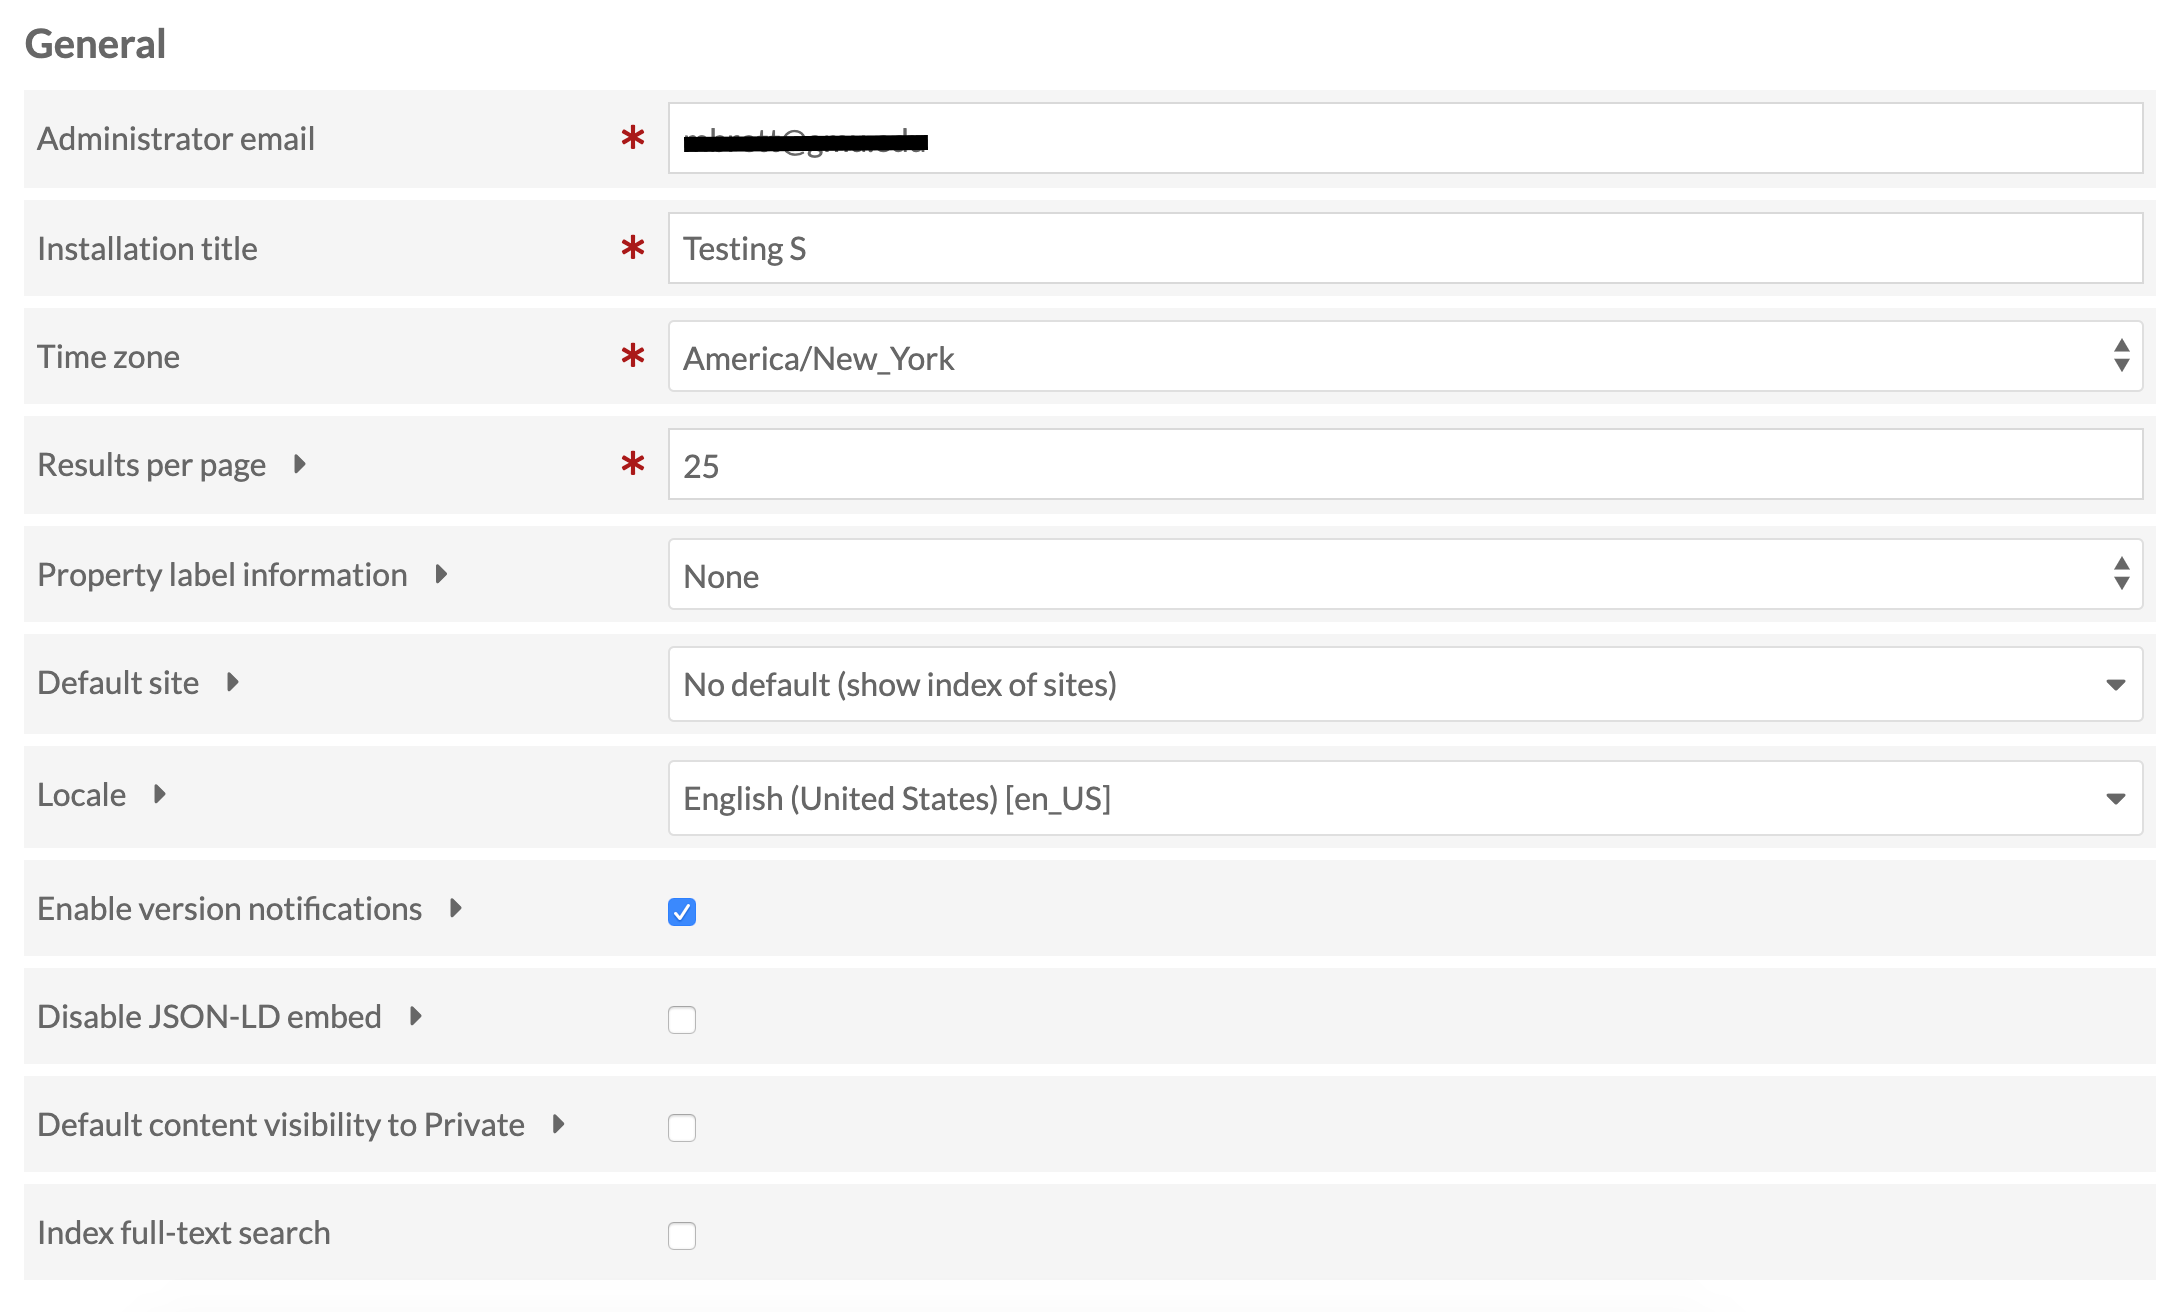
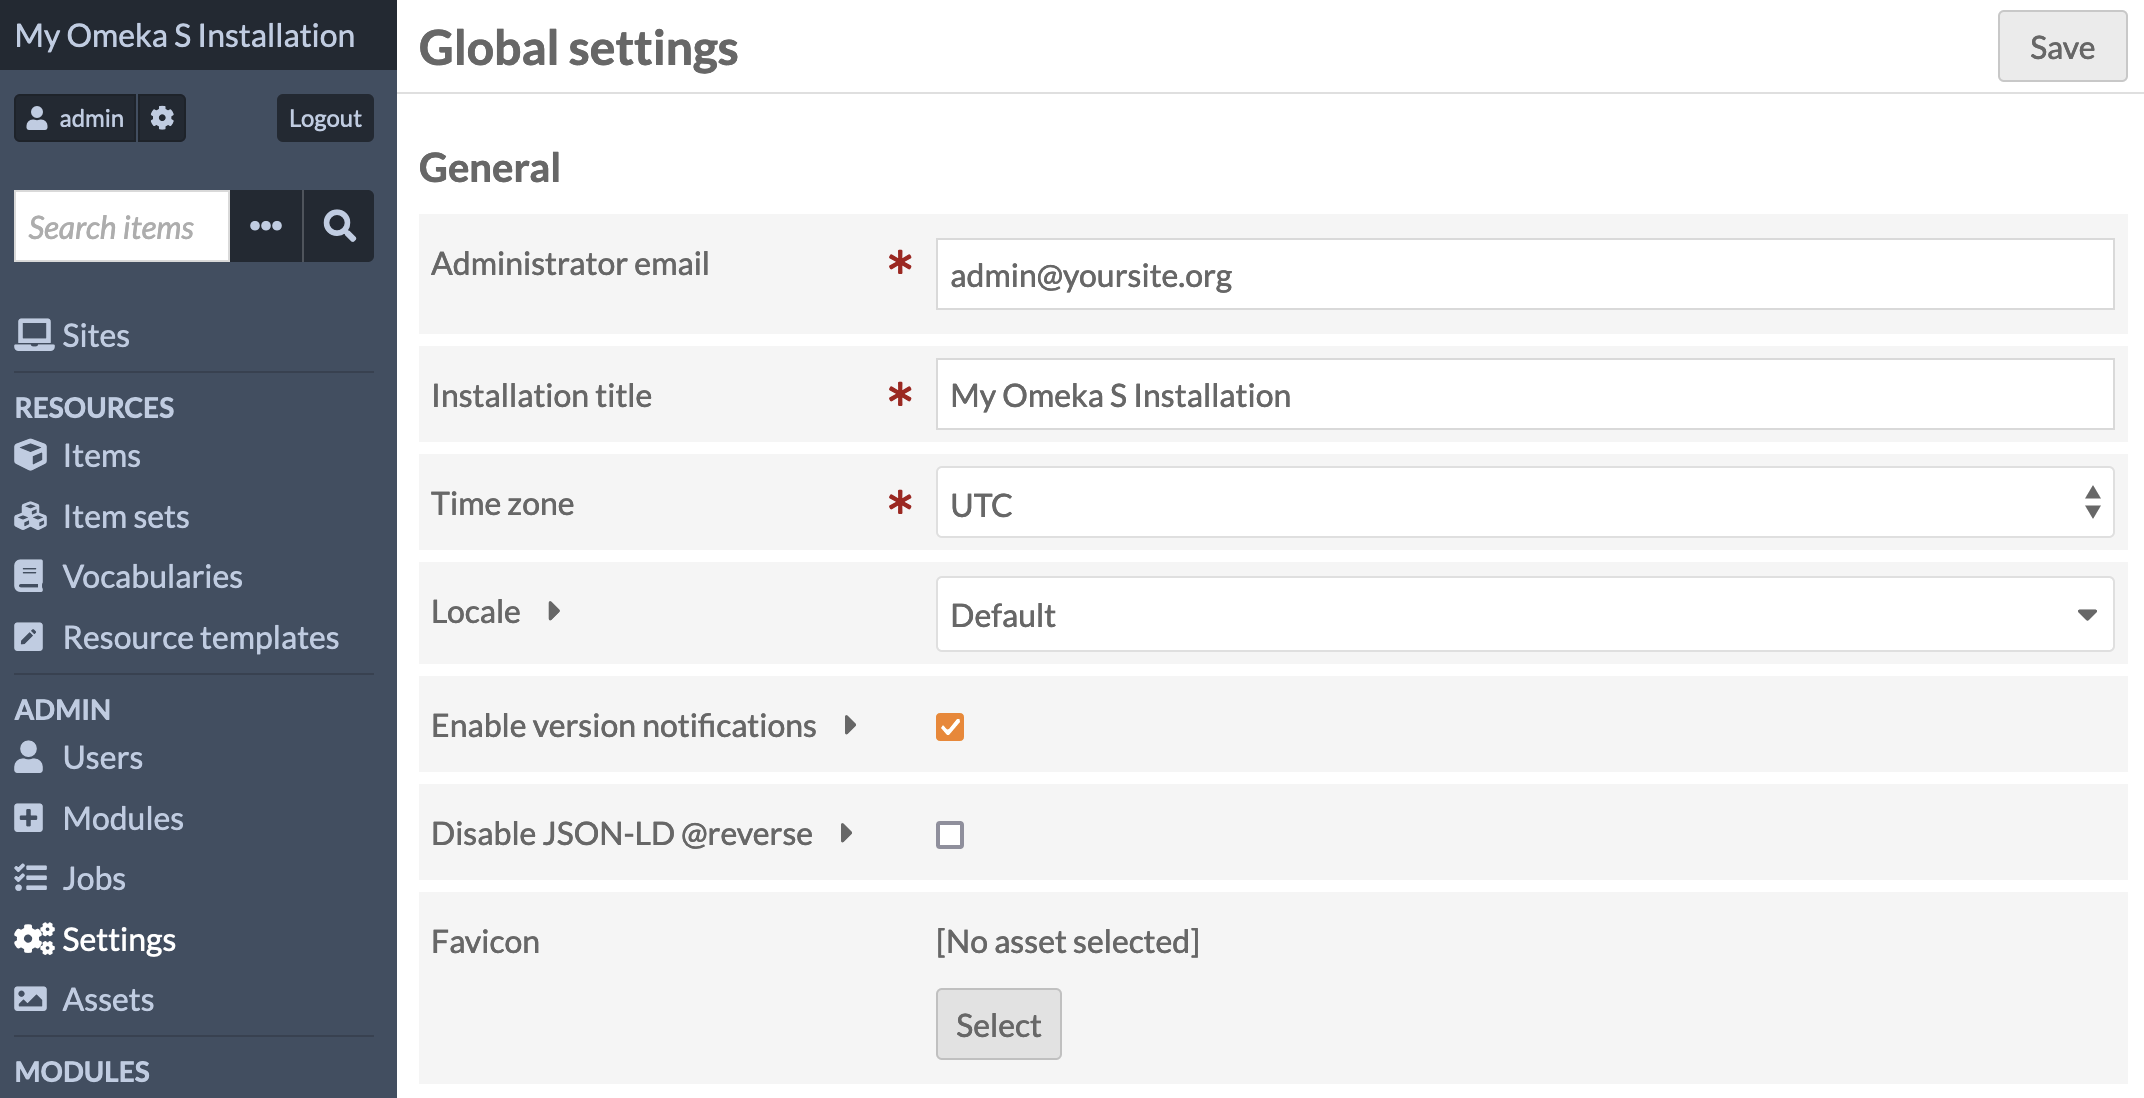
More misc

diff --git a/docs/admin/settings.md b/docs/admin/settings.md
@@ -4,7 +4,7 @@ Admin users may change the settings for the admin dashboard and general settings
 
 Global settings are only available to Global Administrator users.
 
-Settings are divided into two sections: **General** and **Security** settings.
+Settings are divided into five sections: **General**, **Display**, **Editing**, **Search**, and **Security** settings.
 
 ## General
 
@@ -19,6 +19,18 @@ Settings are divided into two sections: **General** and **Security** settings.
 
 **Time zone**: Sets the default time zone for the install, which will be used for error logging messages and to determine creation dates for items, item sets, and other materials on the install. This is a dropdown menu. 
 
+**Locale**: A dropdown that lets you select from a dropdown of [available languages](https://www.transifex.com/omeka/omeka-s/){target=_blank} for the Omeka S core to change the language in which your installation's admin side displays.
+
+**Enable version notifications**: Check this box to enable warning banners for new versions of Omeka S, themes, and modules. If it is unchecked, no user (at any role) will see update warnings, not even the Global Administrator. If it is checked, every applicable user can see them (i.e. Supervisor users who can see the Modules page, Site Managers who can see the Themes pages, and every user on the `/admin` homepage).
+
+**Disable JSON-LD @reverse**: Disable [JSON-LD reverse properties](https://www.w3.org/TR/json-ld11/#reverse-properties){target=_blank} in the API output for resources. 
+
+**Favicon**: Choose from your assets, or upload a file, to appear in the small browser window/tab icon space. A [favicon](https://www.w3schools.com/html/html_favicon.asp){target=_blank} should be a small image around 32x32 pixels in size uploaded specifically for this purpose. Favicons can be [set at an installation level](../sites/site_settings.md#general-settings) as well as on each individual site.
+
+## Display
+
+![Display, Editing, and Search settings with fields as described below](adminfiles/settings_display.png)
+
 **Results per page**: Changes the number of results (items, item sets, media) displayed per page when browsing in either public or admin sides of the installation.
 
 **Property label information**: Determines what is displayed next to each property when users are editing items and item sets. 
@@ -29,11 +41,9 @@ Settings are divided into two sections: **General** and **Security** settings.
 
 **Default site**: This dropdown gives you control over where people land when they navigate to the base url of your install. You can either display a list of all sites in the install (default) or select a specific site from the dropdown, to which people will be redirected.
 
-**Locale**: A dropdown that lets you select from a dropdown of [available languages](https://www.transifex.com/omeka/omeka-s/){target=_blank} for the Omeka S core to change the language in which your installation's admin side displays.
-
-**Enable version notifications**: Check this box to enable warning banners for new versions of Omeka S, themes, and modules. If it is unchecked, no user (at any role) will see update warnings, not even the Global Administrator. If it is checked, every applicable user can see them (i.e. Supervisor users who can see the Modules page, Site Managers who can see the Themes pages, and every user on the `/admin` homepage).
-
 **Disable JSON-LD embed**: By default, Omeka embeds JSON-LD in resource browse and show pages for the purpose of machine-readable metadata discovery. Check this to disable embedding.
+
+## Editing
 
 **Default content visibility to Private**: When this box is checked, all new items, item sets, and sites will have their visibility set to private. If this box is not checked, the default is public. 
 
@@ -41,7 +51,9 @@ Settings are divided into two sections: **General** and **Security** settings.
 
 **Media alt text property**: Select a field (for example, `dc:title` or `dc:description`) from the media description to use as alternative text if no alt text is explicitly set. [Alt text](https://webaim.org/techniques/alttext/){target=_blank} is used in lieu of images (including thumbnails on browsing and search results pages) when a user is employing a screen reader and is an important part of meeting accessibility expectations.
 
-**Index full-text search**: Check this box to run an index of your installation's resources and sites as soon as you click "Save". You should only need to run this process if you are having issues with searching.
+## Search
+
+**Index full-text search**: Check this box and "Save" the page to run an index of your installation's resources and sites. You should only need to run this process if you are having issues with searching.
 
 ## Security
 

diff --git a/docs/sites/site_settings.md b/docs/sites/site_settings.md
@@ -72,9 +72,9 @@ The options for this setting are:
 - When identified (when logged in)
 - Always.
 
-**Disable JSON-LD embed**: Check this box to disable JSON-LD embedding on resource browse and show pages.
+**Disable JSON-LD embed**: Check this box to disable JSON-LD embedding on resource browse and show pages for this site. This is also available as a [global setting at the installation level](../admin/settings.md).
 
-**Favicon**: Choose from your assets, or upload a file, to appear in the small browser window/tab icon space. A [favicon](https://www.w3schools.com/html/html_favicon.asp){target=_blank} should be a small image around 32x32 pixels in size uploaded specifically for this purpose. 
+**Favicon**: Choose from your assets, or upload a file, to appear in the small browser window/tab icon space. A [favicon](https://www.w3schools.com/html/html_favicon.asp){target=_blank} should be a small image around 32x32 pixels in size uploaded specifically for this purpose. Favicons can be [set at an installation level](../admin/settings.md#general) as well as on each individual site.
 
 **Page subnavigation display**: Pages can be navigated from top to bottom according to the order used on the [navigation](site_navigation.md) tab, using the "Previous" and "Next" buttons that appear at the bottom of each page. Some themes may also show a breadcrumb at the top of each page. Where pages are arranged in a hierarchy in the navigation, a subnavigation is also displayed to help visitor move from parent to child pages. You can opt to:
 

diff --git a/docs/content/media.md b/docs/content/media.md
@@ -318,6 +318,12 @@ Ogg Vorbis audio (.ogg, .oga) is a compressed format like MP3 and AAC, but it ha
 
 Opus (.opus) is one of the newer available audio formats. For the time being, it has a similar problem as Vorbis: a lack of support among browsers, but there are signs that Opus could gain more support in the future.
 
+### Images
+
+Omeka S accepts most image file types, including JPEG, PING, TIFF, and WEBP. Keep in mind that most browsers do not natively display TIFF files; Omeka creates derivative images for TIFFs in JPEG format that are displayed as thumbnails and on item/media view pages. Users can download TIFFs where the original file is offered. 
+
+WEBP support is new in Omeka S 4.1. Existing installations that have been upgraded to 4.1 may need to update the list of allowed file types and extensions on the [Settings](../admin/settings.md) tab by pressing the "Restore" buttons ("Restore default media types" and "Restore default extensions").  
+
 ### Legacy formats
 There are a lot of media files out there that aren’t in any of the formats listed here. With certain add-ons or on certain platforms (like Safari on the Mac in many cases), it can be possible to embed some of those files with HTML 5, but expect many or most users to be unable to play them. Browser plugins can also play many file types, but browsers are steadily reducing and removing their support for these kinds of plugins.
 
